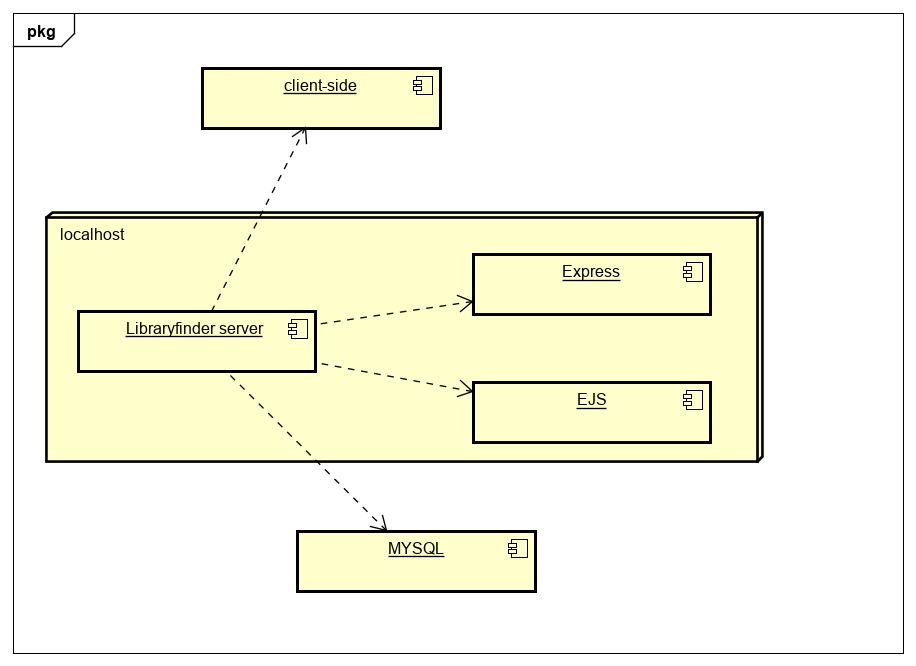
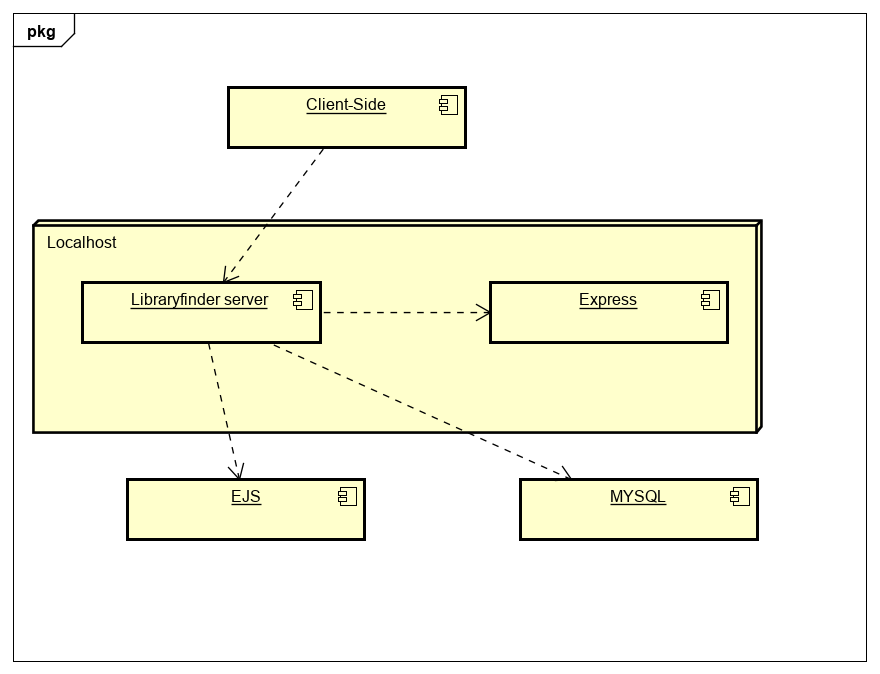
added release notes and new deployment diagram

diff --git a/docs/deployment.md b/docs/deployment.md
@@ -1,8 +1,9 @@
 # Deployment
 
 ## Release Notes
-TODO: Describe the current version of the system (with version number. Include system dependencies ands software tools used.
-Are there any known issues? Provide the URL of the deployed system. 
+
+The current version of the system is v1.0.The system is run on the local server 8080, the software tools used are Express, EJS and MYSQL. The librairyfinder website also has dependencies to all of those tools as they all the website to run as it does. There is one issue with the system as when the 'view in map' option is chosen a message that says "browser doesnt support geo-location" pops up and then the map appears afterwards.
+
 Describe the deployment of software components to hardware nodes using a UML Deployment diagram.
 
 ![Insert Deployment diagram here](images/deployment.png)
